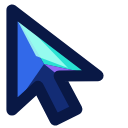
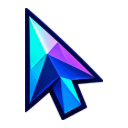
feat(cursor): ship raster themes and 3D modeling direction

diff --git a/src/lib/cursor/cursorThemes.ts b/src/lib/cursor/cursorThemes.ts
@@ -86,8 +86,8 @@ export const DEFAULT_CURSOR_SPRITES: Record<NativeCursorType, CursorSprite> = {
 };
 
 /**
- * Bundled cursor themes. These five packs are original OpenScreen artwork. Their editable
- * SVGs live in design/cursors/ and are rasterized by scripts/generate-original-cursor-themes.mjs.
+ * Bundled cursor themes. These five packs are original OpenScreen artwork. Their raster
+ * masters live in design/cursors/ and are prepared by scripts/generate-original-cursor-themes.mjs.
  * The former Sweezy packs were removed
  * because their terms forbid redistribution without written permission.
  *
@@ -105,15 +105,15 @@ export const CURSOR_THEMES: readonly CursorTheme[] = [
 				assetPath: "cursors/studio-ink/arrow.png",
 				width: 32,
 				height: 32,
-				hotspotX: 3,
-				hotspotY: 2.5,
+				hotspotX: 6.2304,
+				hotspotY: 2.0992,
 			},
 			pointer: {
 				assetPath: "cursors/studio-ink/pointer.png",
 				width: 32,
 				height: 32,
-				hotspotX: 13.7,
-				hotspotY: 2.5,
+				hotspotX: 12.848,
+				hotspotY: 2.0704,
 			},
 		},
 	},
@@ -125,15 +125,15 @@ export const CURSOR_THEMES: readonly CursorTheme[] = [
 				assetPath: "cursors/prism-glow/arrow.png",
 				width: 32,
 				height: 32,
-				hotspotX: 3,
-				hotspotY: 2.5,
+				hotspotX: 6.3456,
+				hotspotY: 2.0672,
 			},
 			pointer: {
 				assetPath: "cursors/prism-glow/pointer.png",
 				width: 32,
 				height: 32,
-				hotspotX: 13.7,
-				hotspotY: 2.5,
+				hotspotX: 11.968,
+				hotspotY: 2.0352,
 			},
 		},
 	},
@@ -145,15 +145,15 @@ export const CURSOR_THEMES: readonly CursorTheme[] = [
 				assetPath: "cursors/pop-coral/arrow.png",
 				width: 32,
 				height: 32,
-				hotspotX: 3,
-				hotspotY: 2.5,
+				hotspotX: 10.4768,
+				hotspotY: 2.1792,
 			},
 			pointer: {
 				assetPath: "cursors/pop-coral/pointer.png",
 				width: 32,
 				height: 32,
-				hotspotX: 13.7,
-				hotspotY: 2.5,
+				hotspotX: 12.3456,
+				hotspotY: 2,
 			},
 		},
 	},
@@ -165,15 +165,15 @@ export const CURSOR_THEMES: readonly CursorTheme[] = [
 				assetPath: "cursors/pixel-candy/arrow.png",
 				width: 32,
 				height: 32,
-				hotspotX: 3,
-				hotspotY: 3,
+				hotspotX: 7.3664,
+				hotspotY: 2,
 			},
 			pointer: {
 				assetPath: "cursors/pixel-candy/pointer.png",
 				width: 32,
 				height: 32,
-				hotspotX: 13.5,
-				hotspotY: 2,
+				hotspotX: 13.376,
+				hotspotY: 1.9264,
 			},
 		},
 	},
@@ -185,15 +185,15 @@ export const CURSOR_THEMES: readonly CursorTheme[] = [
 				assetPath: "cursors/star-sprout/arrow.png",
 				width: 32,
 				height: 32,
-				hotspotX: 3,
-				hotspotY: 2.5,
+				hotspotX: 4.7232,
+				hotspotY: 2.1152,
 			},
 			pointer: {
 				assetPath: "cursors/star-sprout/pointer.png",
 				width: 32,
 				height: 32,
-				hotspotX: 13.7,
-				hotspotY: 2.5,
+				hotspotX: 13.1712,
+				hotspotY: 2.0384,
 			},
 		},
 	},

diff --git a/design/cursors/README.md b/design/cursors/README.md
@@ -1,8 +1,8 @@
 # Original OpenScreen cursor themes
 
-These five themes replace the removed Sweezy packs. Their SVG shapes and palettes were
-drawn for OpenScreen. Image generation was used for visual exploration; no generated
-bitmap or third-party cursor file is shipped. The SVGs here are the editable masters.
+These five themes replace the removed Sweezy packs. The artwork was created for
+OpenScreen as transparent raster images. The PNGs in this directory are the
+original high-resolution masters; there is no SVG conversion step.
 
 | Theme | Intent |
 | --- | --- |
@@ -12,14 +12,19 @@ bitmap or third-party cursor file is shipped. The SVGs here are the editable mas
 | Pixel Candy | A small retro option for people who liked pixel packs |
 | Star Sprout | An original tiny character for people who liked mascot packs |
 
-Each theme has `arrow.svg` and `pointer.svg`. The matching transparent 128×128 PNGs
-are in `public/cursors/<theme>/`. Run `node scripts/generate-original-cursor-themes.mjs`
-after editing an SVG to regenerate its PNG. The script creates an SVG only if it does
-not exist, so edits to the masters are preserved.
+Each `source.png` contains an arrow on the left and a hand on the right. Run
+`node scripts/generate-original-cursor-themes.mjs` to crop, remove low-alpha
+fringe pixels, and resize them into transparent 128 × 128 PNGs under
+`public/cursors/<theme>/`. The script prints the normalized tip hotspots;
+copy them into `src/lib/cursor/cursorThemes.ts` after changing a master.
 
-Hotspots are expressed in the SVG's 32×32 coordinate system in
-`src/lib/cursor/cursorThemes.ts`. Keep a hotspot on the arrow's tip or the hand's
-raised fingertip when changing a shape. Other cursor states use the built-in art.
+Pop Coral has an additional `source-3d.png` without its decorative offset
+layer or floating rays. Its `arrow-3d.png` and `pointer-3d.png` are prepared
+surface art for a future 3D model, not a finished model. The current compositor
+still limits its simple 3D extrusion to the built-in default theme. Cursor
+states not supplied by a theme use the built-in art.
 
 `contact-sheet.png` shows the sprites enlarged on a light background;
 `dark-32px.png` shows them at their 32-pixel reference size on a dark background.
+The separate 3D modeling direction and concept image are in `3d-direction.md`
+and `3d-concept.png`.

diff --git a/design/cursors/3d-direction.md b/design/cursors/3d-direction.md
@@ -1,0 +1,26 @@
+# Direction for modelled cursor themes
+
+`3d-concept.png` is a visual reference, not a render from OpenScreen.
+The current compositor's mode 15 rounds an extruded 2D silhouette. It does
+not make a convex palm, separate fingers, or a sculpted arrow body. Do not
+present a bevel adjustment as the finished 3D treatment.
+
+The production 3D version should have authored geometry for each cursor
+theme and state, anchored to the same arrow tip or raised fingertip as its
+flat PNG. The PNG supplies its colour and surface pattern; geometry supplies
+the volume. Pop Coral's decorative offset layer and rays belong to its flat
+art, not its 3D body. The prepared single-surface PNGs can be used as its
+3D colour reference.
+
+| Theme | Volume direction |
+| --- | --- |
+| Studio Ink | Solid sculpted arrow; convex palm and distinct rounded fingers |
+| Prism Glow | Sharp crystal facets and angular finger segments |
+| Pop Coral | Soft rubber body with generous rounded volume |
+| Pixel Candy | Stepped voxel silhouette with restrained edge rounding |
+| Star Sprout | Soft ceramic body; star and leaves as separate raised details |
+
+The model needs a true changing surface normal across the face, visible
+depth in a three-quarter view, correct contact shadows, and a stable hotspot
+during yaw, pitch, click and size changes. A static PNG of a 3D render is
+insufficient: the compositor's camera and lighting must see the geometry.
